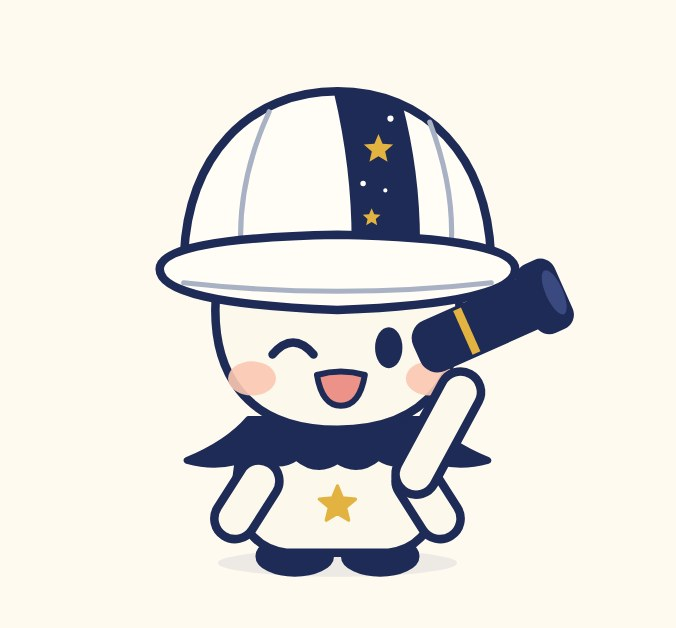
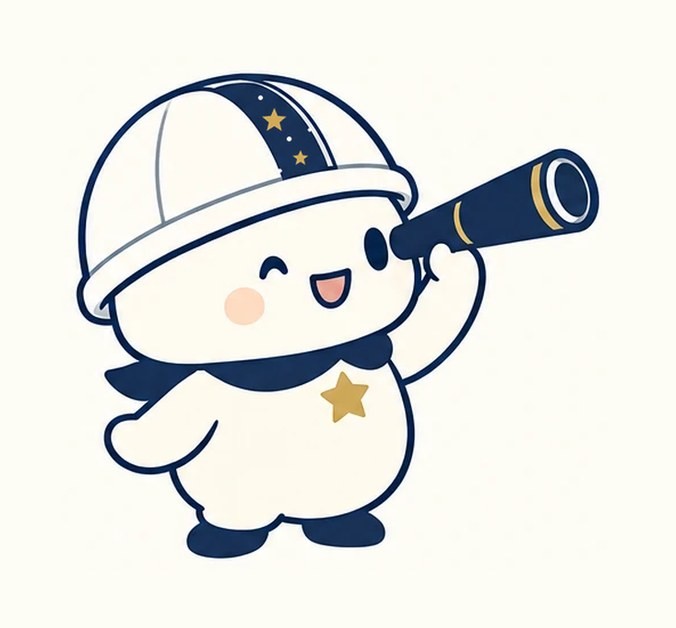
Use the original Nichiharan artwork instead of a redraw.
The redraw changed the body shape, so the site now uses figures cropped
from the provided sheet as-is, with only gold stars and star dots added
inside the hat slit. A catchphrase version adds a speech bubble.

Claude-Session: https://claude.ai/code/session_012FDEmQ2sqb5v1Ud53WoN39

Changed region(s): [[0.0932, 0.0908, 0.9009, 0.9379]]

diff --git a/docs/mascot/nichiharan-from-reference.py b/docs/mascot/nichiharan-from-reference.py
@@ -1,0 +1,104 @@
+"""
+にちはらんのサイト用画像を、新田さん提供の原画(docs/mascot/nichiharan/reference-v2.webp)から切り出す。
+絵の形は変えず、帽子のスリットの中に金の星と星粒を描き足すだけにする。
+
+  python3 docs/mascot/nichiharan-from-reference.py <出力フォルダ>
+  → wave.png telescope.png cheer.png hareru.png(背景は原画と同じ生成り色)
+  hareru.png は wave を少し小さくして、口ぐせ「今日は晴れるかなぁ」のふきだしを添えたもの。
+  ふきだしの文字は IPAゴシック(fonts-ipafont-gothic)で描く
+"""
+import math
+import sys
+from pathlib import Path
+
+from PIL import Image, ImageDraw
+
+SRC = Path(__file__).parent / 'nichiharan' / 'reference-v2.webp'
+GOLD = (210, 170, 88)
+WHITE = (255, 255, 255)
+BG = (253, 252, 245)
+SS = 4  # なめらかに描くための拡大率
+
+# 原画の中の位置(px)。box は切り出す範囲、stars は (x, y, 半径)、dots は白い星粒 (x, y, 半径)
+FIGURES = {
+    'wave': {
+        'box': (128, 206, 806, 915),
+        'stars': [(555, 274, 19), (573, 342, 12)],
+        'dots': [(583, 246, 2.6), (543, 308, 3), (592, 314, 2.2), (556, 368, 2.8), (598, 372, 2)],
+    },
+    'telescope': {
+        'box': (970, 40, 1455, 490),
+        'stars': [(1157, 96, 11), (1180, 129, 7)],
+        'dots': [(1145, 76, 1.8), (1170, 112, 2), (1188, 104, 1.5), (1162, 140, 1.6)],
+    },
+    'cheer': {
+        'box': (928, 505, 1436, 965),
+        'stars': [(1214, 556, 12), (1221, 592, 8)],
+        'dots': [(1206, 538, 1.6), (1232, 572, 2), (1201, 600, 2), (1234, 604, 1.5)],
+    },
+}
+
+
+def star_points(cx, cy, r, inner=0.45):
+    pts = []
+    for i in range(10):
+        rr = r if i % 2 == 0 else r * inner
+        a = -math.pi / 2 + i * math.pi / 5
+        pts.append(((cx + rr * math.cos(a)) * SS, (cy + rr * math.sin(a)) * SS))
+    return pts
+
+
+def build(name, spec):
+    src = Image.open(SRC).convert('RGB')
+    x0, y0, x1, y1 = spec['box']
+    # 星は原画座標で描くので、先に原画全体へ重ねてから切り出す
+    layer = Image.new('RGBA', (src.width * SS, src.height * SS), (0, 0, 0, 0))
+    d = ImageDraw.Draw(layer)
+    for cx, cy, r in spec['stars']:
+        d.polygon(star_points(cx, cy, r), fill=GOLD + (255,))
+    for cx, cy, r in spec['dots']:
+        d.ellipse(((cx - r) * SS, (cy - r) * SS, (cx + r) * SS, (cy + r) * SS), fill=WHITE + (255,))
+    layer = layer.resize(src.size, Image.LANCZOS)
+    out = Image.alpha_composite(src.convert('RGBA'), layer).convert('RGB').crop((x0, y0, x1, y1))
+    # サイトの枠(300:320)に合わせて上下左右に余白を足す
+    w, h = out.size
+    target_h = max(h, round(w * 320 / 300))
+    target_w = max(w, round(target_h * 300 / 320))
+    canvas = Image.new('RGB', (target_w, target_h), BG)
+    canvas.paste(out, ((target_w - w) // 2, (target_h - h) // 2))
+    return canvas.resize((600, 640), Image.LANCZOS)
+
+
+FONT = '/usr/share/fonts/opentype/ipafont-gothic/ipag.ttf'
+NAVY = (27, 43, 85)
+
+
+def with_bubble(base):
+    from PIL import ImageFont
+
+    W, H = base.size
+    canvas = Image.new('RGB', (W, H), BG)
+    small = base.resize((round(W * 0.8), round(H * 0.8)), Image.LANCZOS)
+    canvas.paste(small, (W - small.width, H - small.height))
+    big = canvas.resize((W * SS, H * SS), Image.LANCZOS)
+    d = ImageDraw.Draw(big)
+    x0, y0, x1, y1 = 14, 14, 250, 118
+    d.rounded_rectangle((x0 * SS, y0 * SS, x1 * SS, y1 * SS), radius=26 * SS, fill=WHITE, outline=NAVY, width=5 * SS)
+    tail = [(150 * SS, 112 * SS), (196 * SS, 112 * SS), (214 * SS, 160 * SS)]
+    d.polygon(tail, fill=WHITE)
+    d.line([tail[0], tail[2], tail[1]], fill=NAVY, width=5 * SS, joint='curve')
+    font = ImageFont.truetype(FONT, 30 * SS)
+    for i, line in enumerate(['今日は', '晴れるかなぁ']):
+        tw = d.textlength(line, font=font)
+        d.text((((x0 + x1) / 2) * SS - tw / 2, (30 + i * 40) * SS), line, font=font, fill=NAVY)
+    return big.resize((W, H), Image.LANCZOS)
+
+
+if __name__ == '__main__':
+    dest = Path(sys.argv[1])
+    dest.mkdir(parents=True, exist_ok=True)
+    for name, spec in FIGURES.items():
+        build(name, spec).save(dest / f'{name}.png', optimize=True)
+        print('wrote', dest / f'{name}.png')
+    with_bubble(build('wave', FIGURES['wave'])).save(dest / 'hareru.png', optimize=True)
+    print('wrote', dest / 'hareru.png')

diff --git a/docs/06-mascot.md b/docs/06-mascot.md
@@ -10,28 +10,25 @@
 
 ## 最新案:にちはらん
 
-新田さん提供のキャラクター案(2026-10-21、`mascot/nichiharan/reference-v2.webp`)をもとに、サイト用のポーズを SVG で描き起こしたもの。
+新田さん提供のキャラクター案(2026-10-21、`mascot/nichiharan/reference-v2.webp`)を、**絵の形を変えずに**サイトで使う。
+原画から3体を切り出し、**帽子のスリットの中に金の星と白い星粒を描き足す**だけにしている(描き直すと体型が変わってしまうため)。
 
-- ドームの帽子:右寄りの紺のスリット、太いつば。**スリットの中にはいつも金の星と星粒を描く**
-- 顔:たて長の紺の目、横長のピーチ色のほっぺ、開いた口
-- 波形のふちの紺の襟と、左右にのびるマントの裾。胸に金の星、紺の足
+- 作り直し:`python3 docs/mascot/nichiharan-from-reference.py public/images/nichiharan`(星の位置は同ファイルの `FIGURES`)
 - キャッチコピー「いっしょに、宇宙をのぞこ!」、口ぐせ「今日は晴れるかなぁ」(新田さん指定)
 
-![にちはらん キャラクターシート](mascot/nichiharan/sheet.png)
+![にちはらん](mascot/nichiharan/sheet.png)
 
-| ファイル | 用途 |
+| ファイル(public/images/nichiharan/) | 内容 |
 | --- | --- |
-| `mascot/nichiharan/wave.svg` | こんばんは!(基本) |
-| `mascot/nichiharan/telescope.svg` | 観望ガイド |
-| `mascot/nichiharan/cheer.svg` | 今夜は開催! |
-| `mascot/nichiharan/hareru.svg` | 口ぐせ「今日は晴れるかなぁ」 |
-| `mascot/nichiharan/sleep.svg` | 休館日・おやすみ |
-| `mascot/nichiharan/cancelled.svg` | くもりで中止… |
-| `mascot/nichiharan/wish.svg` | 願い星★宅配便 |
-| `mascot/nichiharan/reference-v2.webp` | 新田さん提供のキャラクター案(最新) |
-| `mascot/nichiharan/reference-original.webp` | 最初にご提案いただいた元画像 |
+| `wave.png` | 手を振る(基本) |
+| `telescope.png` | 望遠鏡をのぞく |
+| `cheer.png` | ばんざい |
+| `hareru.png` | 口ぐせ「今日は晴れるかなぁ」のふきだし付き(wave を縮めて添えたもの) |
 
-SVG は `node docs/mascot/nichiharan.mjs` で作り直せる(色は `COLORS`、ポーズは `VARIANTS`)。作り直したら `public/images/nichiharan/` にコピーし、トップ・天文台についての `public/images/nichiharan-wave.jpg` `nichiharan-scope.jpg` も書き出し直す。
+トップ・天文台についての `public/images/nichiharan-wave.jpg` `nichiharan-scope.jpg` も、この wave / telescope から作っている。
+おひるね・くもり・おてがみなど別のポーズが要るときは、原画と同じタッチで描いてもらう(イラストレーターに原画を渡す)。
+`docs/mascot/nichiharan.mjs` と同フォルダの SVG は、以前の描き起こし案(サイトでは使っていない)。
+
 プロフィールと一日の過ごし方は `src/pages/nichiharan.astro` にある。
 名前「にちはらん」は、2026-10 の検索で同名キャラクターは見つからなかった。商標(J-PlatPat)の確認は別途必要。
 
